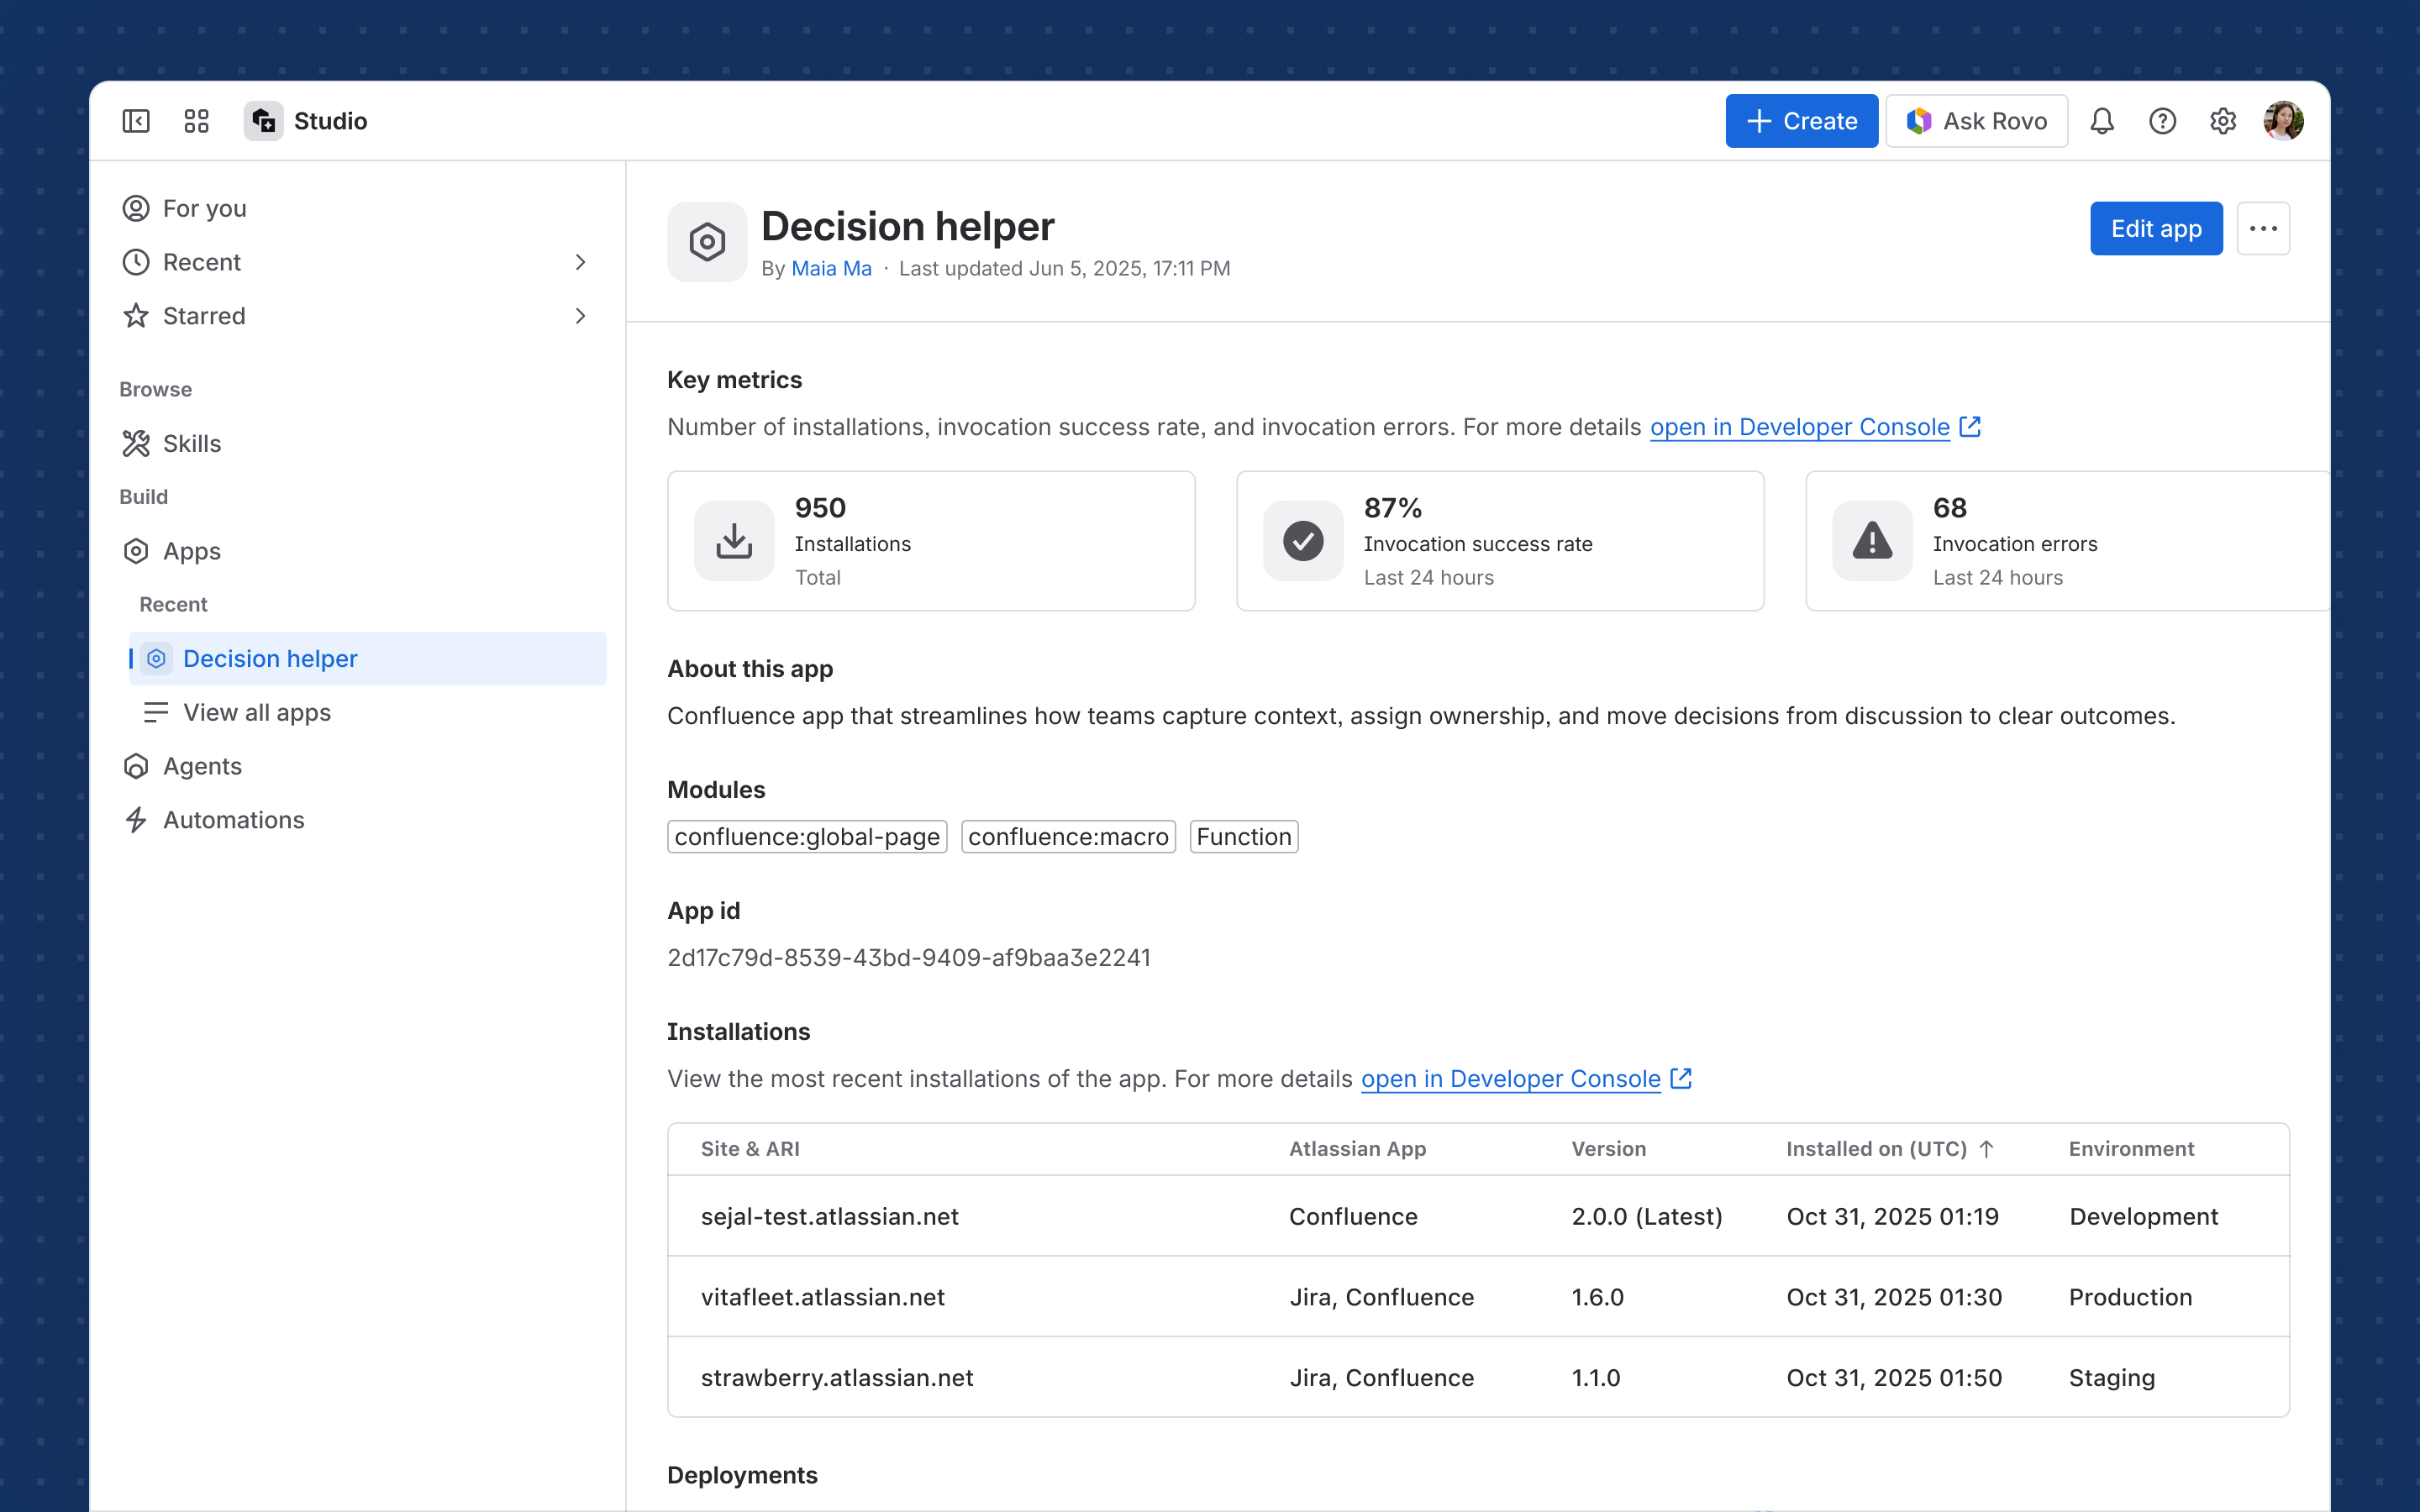
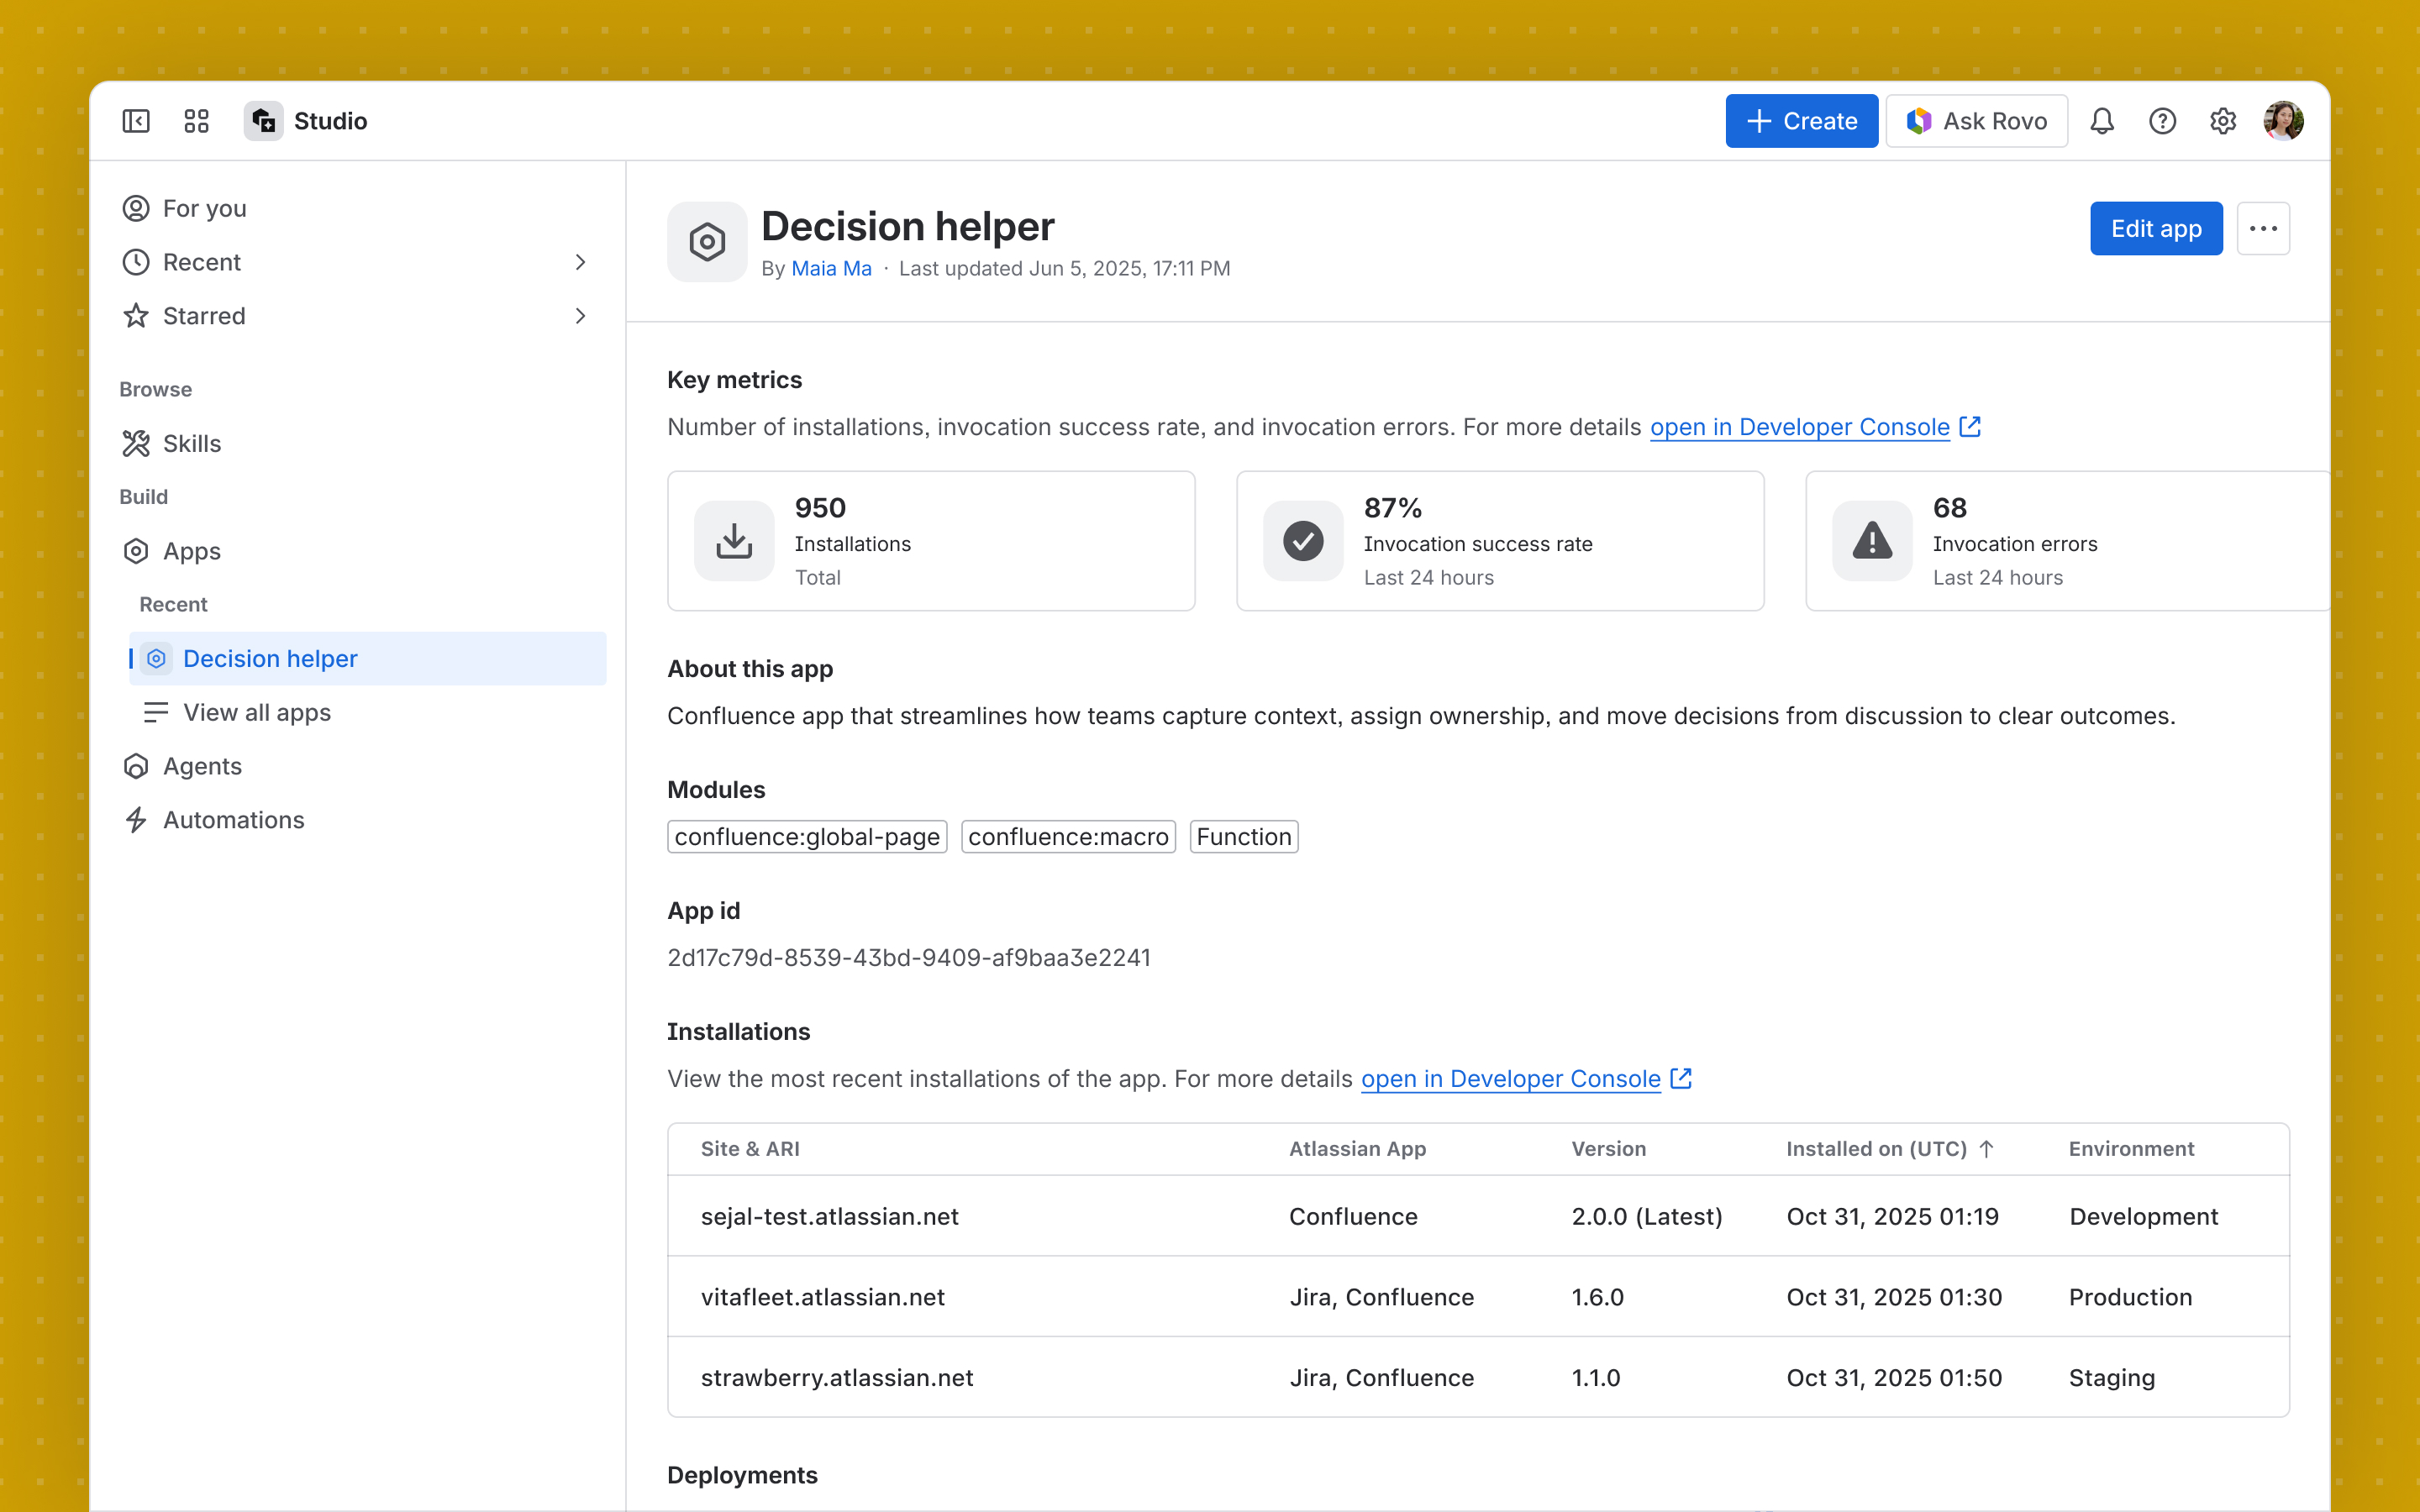
added numbering

Changed region(s): [[0.0, 0.0, 1.0, 1.0]]

diff --git a/studio.html b/studio.html
@@ -181,11 +181,11 @@
         <section>
             <div class="container">  
                 <div class="info">   
-                <h2>Define the app</h2>
+                <h2>1. Define the app</h2>
                     <p>The key task a builder begins with is to find the best way to solve a problem they've 
                         identified to extend or customise their Atlassian experience.
                     </p>
-                    <h5>Key experiences</h5>
+                    <!-- <h5>Key experiences</h5> -->
                 </div>
 
                 <div class="grid">
@@ -259,12 +259,11 @@
         <section>
             <div class="container">  
                 <div class="info">   
-                <h2>Build the app</h2>
+                <h2>2. Build the app</h2>
                     <p>Once the builder is happy with the app plan and specs, they proceed with building the app. Rovo sets up the app project, 
                         adds the right app permissions and writes the app frontend and backend code. Builders can preview and keep iterating on the version 0 
                         generated by Rovo.
                     </p>
-                <h5>Key experiences</h5>
                 </div>
 
                 
@@ -328,11 +327,10 @@
         <section>
             <div class="container">  
                 <div class="info">   
-                <h2>Publish the app</h2>
+                <h2>3. Publish the app</h2>
                     <p>Once the builder is ready to test and publish the app, Rovo goes through the technical steps of ensuring 
                         the code is tested, app is functional and deploys the code to user's preferred environment and installs to the selected site.
                     </p>
-                    <h5>Key experiences</h5>
                 </div>
 
                 <div class="grid">
@@ -394,7 +392,7 @@
         <section>
             <div class="container">  
                 <div class="info">   
-                <h2>Monitor and manage app</h2>
+                <h2>4. Manage and monitor the app</h2>
                     <p>Post publishing, builder can track app’s installations and deployments across their organisation. With the evolving state of AI, Studio 
                         and Atlassian's pro-developer observability tool Developer Console, I was contributing to the broader and long term strategy for the holistic 
                         observability vision for apps. While these were still under discussion, I defined a launch-ready experience 
@@ -409,7 +407,7 @@
                     <picture>
                         <source media="(min-width: 465px)" srcset="img/studio/monitor-01.jpg">
                         <img title="Monitoring and managing app post publishing" src="img/studio/monitor-01.jpg">
-                        <figcaption>Monitoring and managing app post publishing</figcaption>
+                        <figcaption>Managing and monitoring the app post publishing</figcaption>
                     </picture>
                 </div>   
             </div>